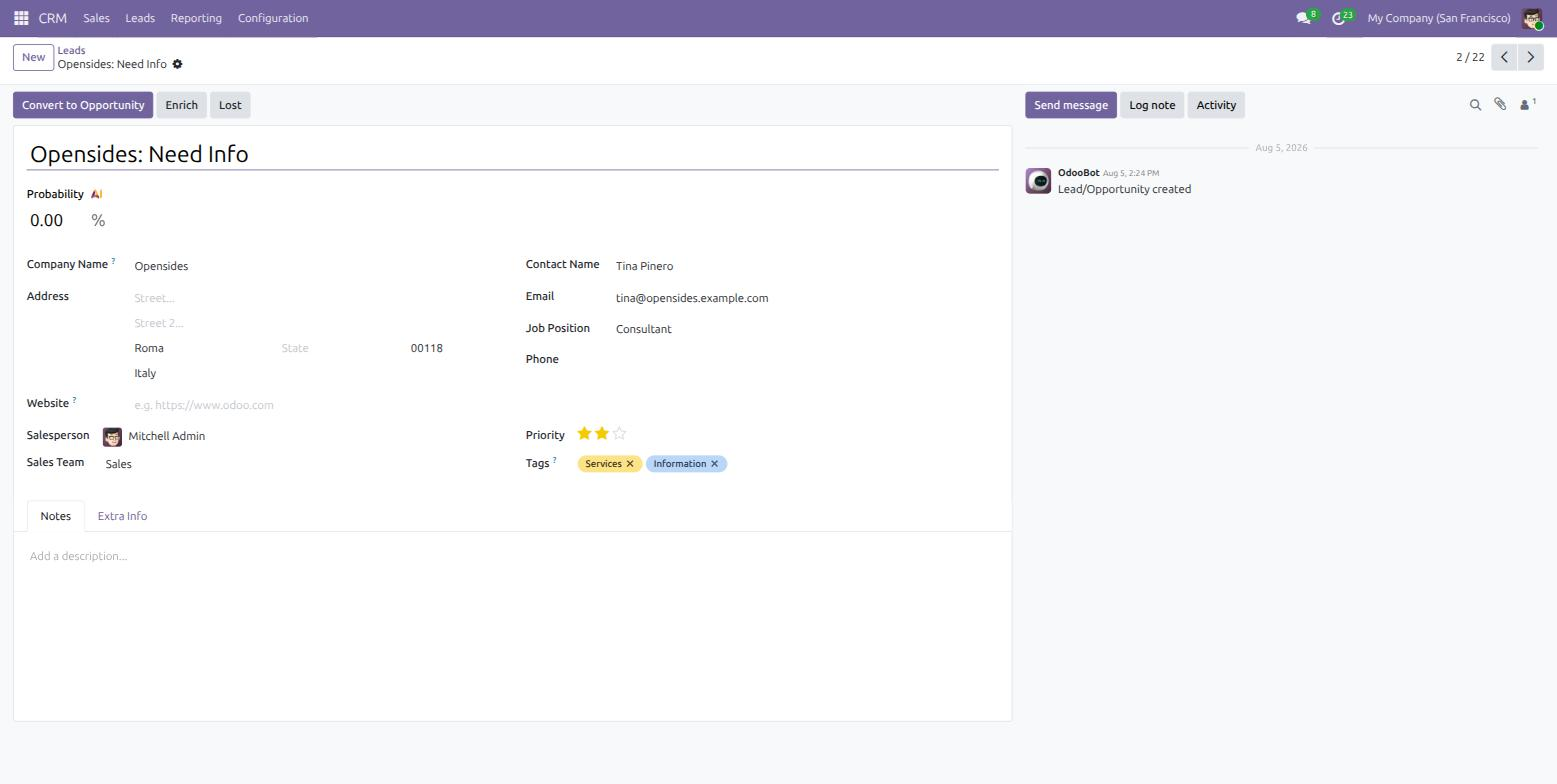
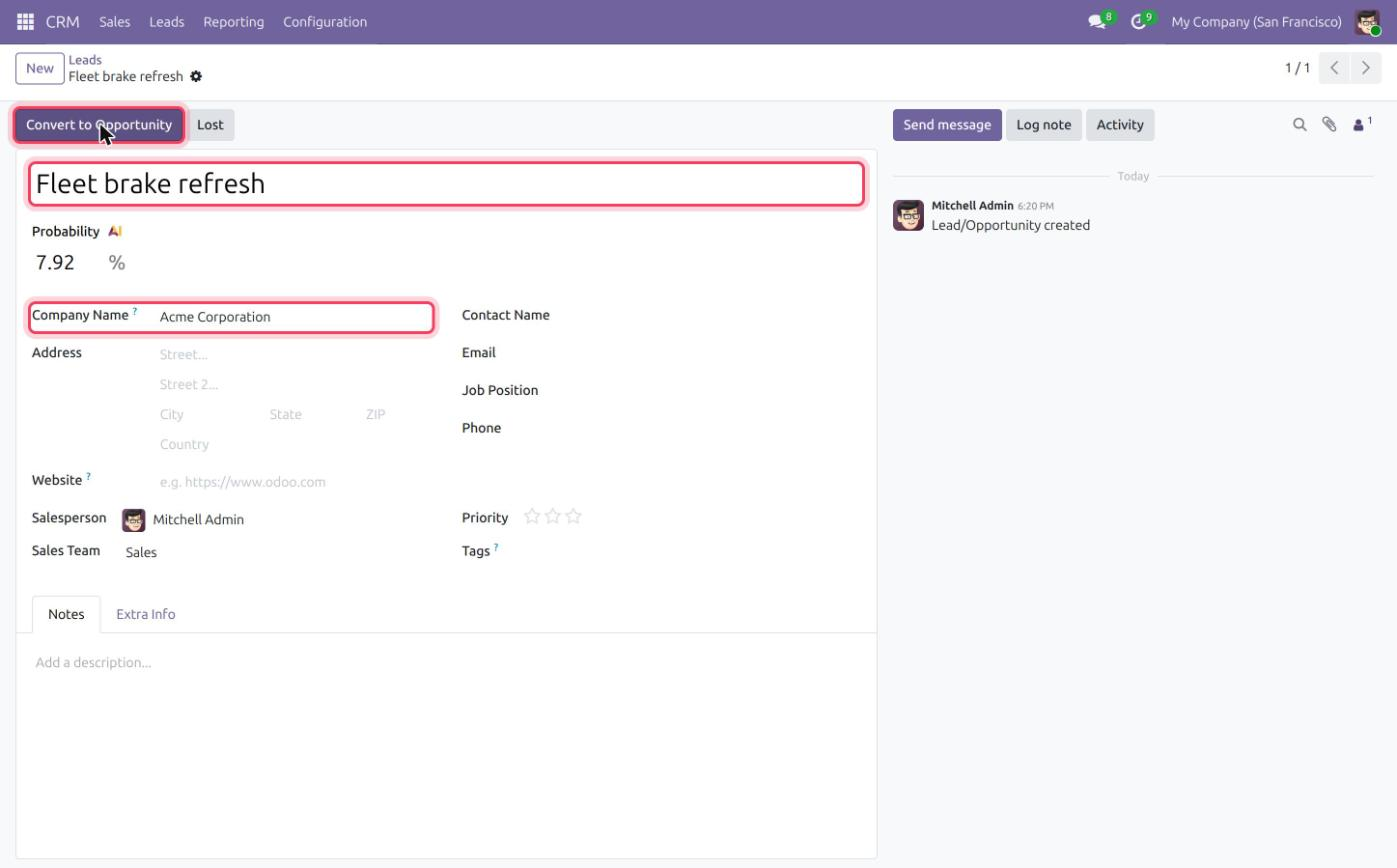
M8: UI first, shell optional: the <UiOrShell> tabs, and ch10 and ch22 as pilots
Integrators mostly work in the UI, so wherever a reader can do a step by
clicking, the UI becomes the main path and the shell command an optional
second tab. <UiOrShell> wraps Fumadocs Tabs with one groupId and persist,
so the reader's choice holds across every chapter.

ch10: upgrade through Apps, tina through Settings > Users and Change
Password, the ACL matrix through Settings > Technical > Access Rights; six
highlighted screenshots. with_user and the fresh-install lab stay shell.
The checker's tina hint no longer says "from odoo shell".

ch22: a highlighted screenshot for every UI step, including the product
configurator dialog the text never mentioned, and UI tabs for movement 2:
the lead's chatter, the Delivery smart button, Apps' installed bridges,
the products' invoicing policies, Orders to Invoice. The diff, psql and
shell readings stay as the second tab.

Both run for real on databases in the reader's state; all ch10 and ch22
checks green. CONTRIBUTING gains the UI-first rule.

diff --git a/web/components/mdx.tsx b/web/components/mdx.tsx
@@ -1,7 +1,9 @@
 import defaultMdxComponents from 'fumadocs-ui/mdx';
 import type { MDXComponents } from 'mdx/types';
+import type { ReactNode } from 'react';
 import { Steps, Step } from 'fumadocs-ui/components/steps';
 import { Files, File, Folder } from 'fumadocs-ui/components/files';
+import { Tabs, Tab } from 'fumadocs-ui/components/tabs';
 import { Quiz } from '@/components/quiz';
 import { Mermaid } from '@/components/mermaid';
 import { Term } from '@/components/term';
@@ -27,6 +29,17 @@ function pre(props: Parameters<NonNullable<typeof defaultMdxComponents.pre>>[0] 
   );
 }
 
+// A step the reader can do by clicking or by typing. The UI comes first because that is
+// how the work is usually done; the shell is the optional second tab. One groupId with
+// persist means the reader's choice sticks across every chapter.
+function UiOrShell({ children }: { children: ReactNode }) {
+  return (
+    <Tabs groupId="ui-or-shell" persist items={['In the UI', 'In the shell']}>
+      {children}
+    </Tabs>
+  );
+}
+
 export function getMDXComponents(components?: MDXComponents) {
   return {
     ...defaultMdxComponents,
@@ -44,6 +57,8 @@ export function getMDXComponents(components?: MDXComponents) {
     File,
     Folder,
     BreakIt,
+    UiOrShell,
+    Tab,
     MigrationChecklist,
     ...components,
   } satisfies MDXComponents;

diff --git a/code/odoolings.py b/code/odoolings.py
@@ -2768,8 +2768,8 @@ CHAPTERS = {
          "This failed in ch09 by design. It passes once the ACLs exist and admin "
          "is in the Workshop / Manager group (the users field on the group record)."),
         ("technician user 'tina' exists in Workshop / User", technician_exists_in_group,
-         "Create the user from odoo shell as in the hands-on (login 'tina', "
-         "group_ids includes librefleet.group_librefleet_user) and env.cr.commit()."),
+         "Settings > Users & Companies > Users > New, login 'tina', Workshop = "
+         "User, then save. From odoo shell, don't forget env.cr.commit()."),
     ],
     "ch11": [
         ("librefleet.service.type model with the right fields", service_type_fields_typed,

diff --git a/CONTRIBUTING.md b/CONTRIBUTING.md
@@ -113,6 +113,24 @@ description: One sentence.
 ## Further reading      <- official docs, OCA examples
 ```
 
+- **UI first, shell optional.** Wherever a reader can do a step by clicking (creating
+  records, settings, **Apps → ⋮ → Upgrade**, reading results through developer mode
+  and **Settings → Technical**), the UI is the main path and the command goes in a
+  second tab:
+
+  ```mdx
+  <UiOrShell>
+  <Tab>
+  ...the clicks, with a screenshot per step...
+  </Tab>
+  <Tab>
+  ...the same step in the shell...
+  </Tab>
+  </UiOrShell>
+  ```
+
+  The reader's choice of tab is remembered across chapters. The shell stays the only
+  path where it is the lesson: the ORM in `odoo shell`, tests, git, reading core source.
 - **Hands-on chapters register `odoolings` checks** for their end state, and Verify
   runs them. New jargon gets a glossary entry (`web/content/docs/glossary.mdx`) the
   same day.
@@ -140,7 +158,10 @@ description: One sentence.
   to follow along. Links out are for going deeper, always pinned to
   `/documentation/19.0/`.
 - **Screenshots** come from the real running instance, captured while the chapter is
-  written, with the browser viewport pinned so a chapter's images match. Files go in
+  written, with the browser viewport pinned so a chapter's images match. Every UI step
+  gets one, with what the reader must click or read outlined in red, taken against a
+  database in the state that chapter's reader has (and named like theirs: developer
+  mode prints the database name in the top bar). Files go in
   `web/public/screens/`, referenced as `/screens/...` with plain markdown `![]()`
   (MDX has no `<http://...>` autolinks; it parses them as JSX). Check every UI claim
   against the screen, not against `ir.ui.menu`: the web client filters menus by
